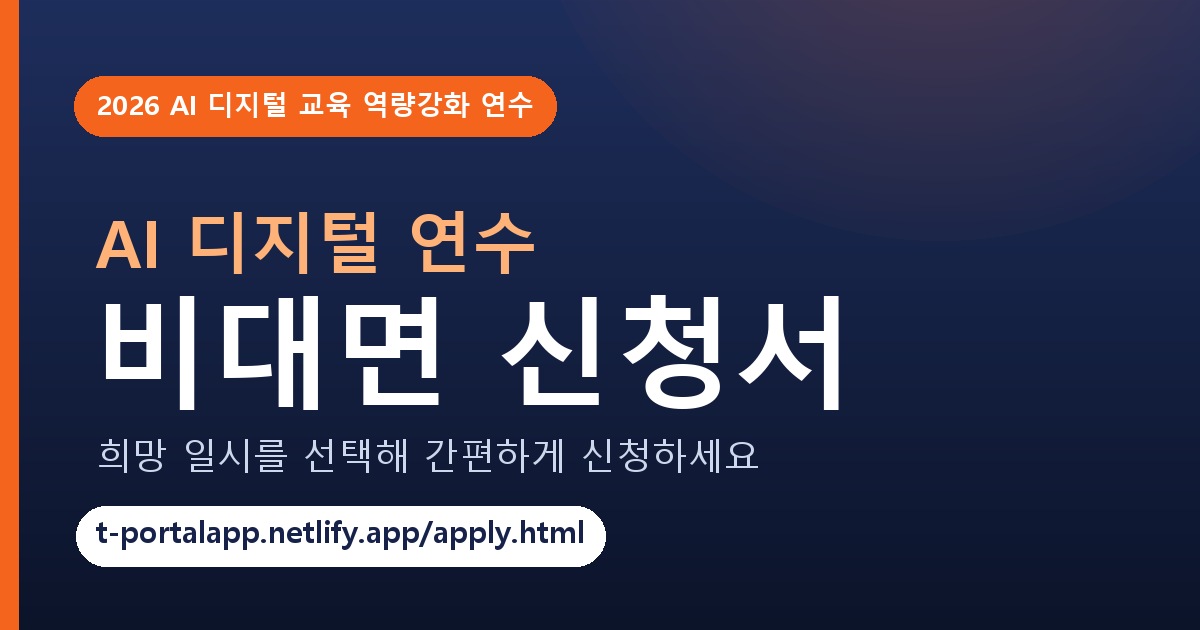
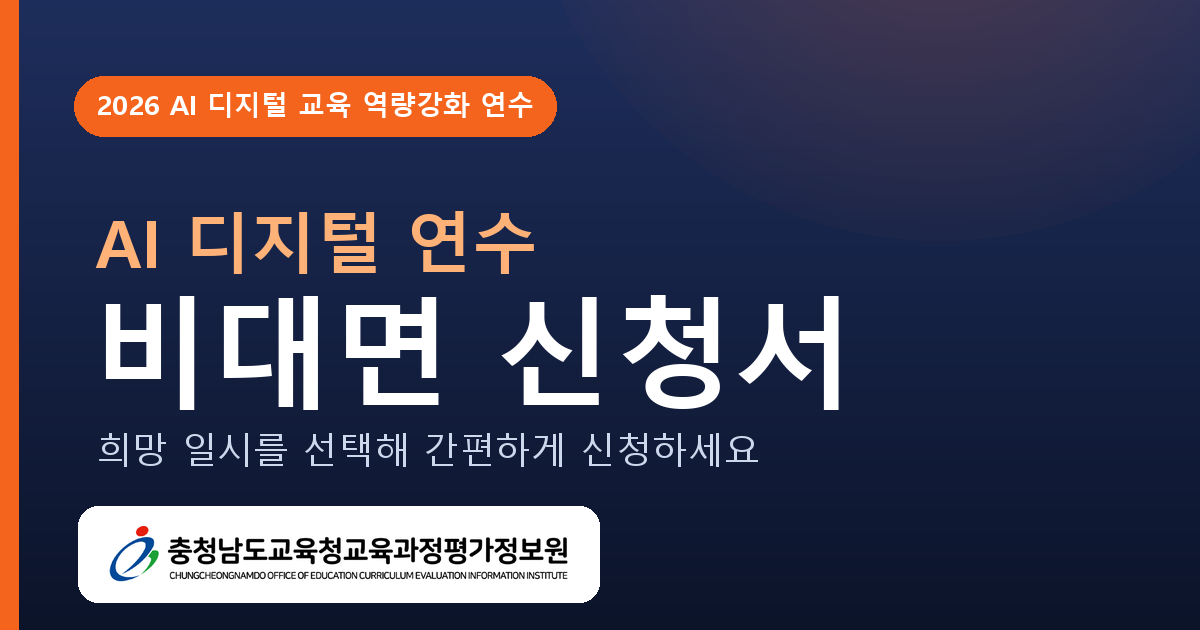
비대면 신청서 오픈그래프에 평가정보원 로고·기관명 삽입(하단 흰 바), 주소 제거·이미지 버전 갱신

Changed region(s): [[0.0617, 0.8143, 0.5242, 0.9651], [0.0617, 0.6937, 0.6475, 0.754]]

diff --git a/apply.html b/apply.html
@@ -11,14 +11,14 @@
 <meta property="og:title" content="AI디지털연수 비대면 신청서" />
 <meta property="og:description" content="희망 일시를 선택해 간편하게 신청하세요 · 2026 AI 디지털 교육 역량강화 연수" />
 <meta property="og:url" content="https://t-portalapp.netlify.app/apply.html" />
-<meta property="og:image" content="https://t-portalapp.netlify.app/apply-og.png" />
+<meta property="og:image" content="https://t-portalapp.netlify.app/apply-og.png?v=2" />
 <meta property="og:image:width" content="1200" />
 <meta property="og:image:height" content="630" />
 <meta property="og:locale" content="ko_KR" />
 <meta name="twitter:card" content="summary_large_image" />
 <meta name="twitter:title" content="AI디지털연수 비대면 신청서" />
 <meta name="twitter:description" content="희망 일시를 선택해 간편하게 신청하세요" />
-<meta name="twitter:image" content="https://t-portalapp.netlify.app/apply-og.png" />
+<meta name="twitter:image" content="https://t-portalapp.netlify.app/apply-og.png?v=2" />
 <style>
   :root{
     --navy:#16224a; --navy2:#22417e; --orange:#f4641c; --orange2:#ffa24a;
